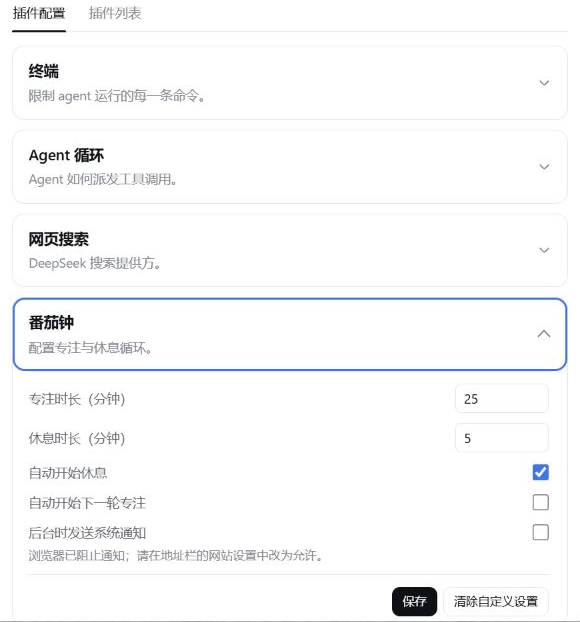
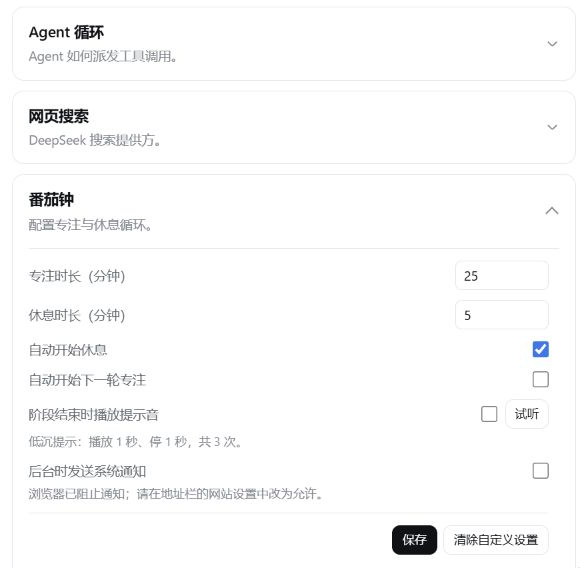
docs: 更新提示音说明与设置截图

diff --git a/README.md b/README.md
@@ -56,7 +56,7 @@
 - **完整计时控制：** 支持开始、暂停、重置、跳过、环形进度、阶段提示和已完成专注计数。
 - **低干扰迷你模式：** 收起后只保留阶段、倒计时和开始/暂停，仍可拖动、展开或关闭。
 - **可配置循环：** 专注与休息时长可调，并可分别控制是否自动开始休息或下一轮专注。
-- **双层完成提醒：** 阶段结束时显示 DSH 内全局提醒；可选在页面处于后台时发送浏览器系统通知。
+- **三通道完成提醒：** 阶段结束时显示 DSH 内全局提醒；还可分别开启低沉提示音和后台系统通知。
 - **宿主主题适配：** 复用 DSH 设计令牌，支持明暗主题、键盘焦点和“减少动态效果”偏好。
 - **可预期的降级：** settings 服务不可用或浏览器不是 loopback 连接时，计时器仍可使用，并明确进入只读模式。
 
@@ -105,6 +105,7 @@ dsh web
 | 休息时长 | 5 分钟 | 每轮休息阶段的完整时长 |
 | 自动开始休息 | 开启 | 专注自然结束后自动启动休息 |
 | 自动开始下一轮专注 | 关闭 | 休息自然结束后自动启动下一轮 |
+| 阶段结束时播放提示音 | 关闭 | 播放 1 秒低沉提示、停 1 秒，共 3 次；可直接试听 |
 | 后台时发送系统通知 | 关闭 | DSH 页面处于后台时，通过浏览器平台 API 发送通知 |
 
 设置保存在 DSH 设置文档的 `dsh-pomodoro` 分节。尚未开始且未被改动的当前阶段会立即采用新时长；运行中或已经暂停的阶段从下一次阶段切换起采用。
@@ -115,9 +116,11 @@ dsh web
 
 专注或休息自然结束后，插件始终通过 DSH 官方 `shell.overlay` 显示全局提醒，即使番茄钟面板已经关闭也能看到。若下一阶段配置为自动开始，提醒会同时说明新的阶段已经开始。
 
+“阶段结束时播放提示音”默认关闭。开启并保存后，插件会在每次自然结束时播放内置低沉提示：每次只播放音频的前 1 秒，随后停 1 秒，共 3 次，总提醒时段约 5 秒。“试听”无需先保存；首次开启、试听或开始计时会尝试解锁浏览器音频。若浏览器仍拒绝播放，DSH 内提醒不会受影响。
+
 “后台时发送系统通知”默认关闭。首次开启时浏览器会请求当前站点的通知权限；授权成功后仍需点击“保存”。插件只把启用意图写入 `settings.yaml` 的 `dsh-pomodoro.systemNotifications`，通知权限仍由浏览器按站点独立管理。若权限被拒绝、浏览器不支持通知或当前地址不是安全上下文，DSH 内提醒会继续工作。
 
-系统通知仅在 DSH 页面处于后台或失去焦点时发送，前台不会与 DSH 内提醒重复打扰。请通过 `localhost`、`127.0.0.1` 或 HTTPS 访问，并保持 DSH 页面打开；关闭页面后的可靠提醒不在当前版本支持范围内。
+系统通知仅在 DSH 页面处于后台或失去焦点时发送，前台不会与 DSH 内提醒重复打扰。同时启用提示音时，插件会请求系统通知静音，实际效果由浏览器和操作系统决定。请通过 `localhost`、`127.0.0.1` 或 HTTPS 访问，并保持 DSH 页面打开；关闭页面后的可靠提醒不在当前版本支持范围内。
 
 ## 更新与移除
 
@@ -149,6 +152,7 @@ npm pack --dry-run
 |---|---|
 | `lib/index.js` | Node/Cordis 入口、配置 schema 和 loopback RPC |
 | `lib/client.js` | 浏览器计时引擎、React UI、slot 注册和设置同步 |
+| `assets/sounds/deep-ding.mp3` | CC0 低沉提示音源文件；运行时字节嵌入客户端 bundle |
 | `cordis.patch.yml` | 向 DSH Web 组合插入插件服务 |
 | `package.json` | exports、peer 范围、bundle 声明和 npm 发布清单 |
 | `.github/workflows/publish.yml` | GitHub Release 到 npm 的可信发布流程 |
@@ -172,4 +176,4 @@ npm pack --dry-run
 
 ## License
 
-[MIT](LICENSE)。React/ReactDOM 等第三方组件的许可信息见 [THIRD_PARTY_NOTICES.md](THIRD_PARTY_NOTICES.md)。
+[MIT](LICENSE)。React/ReactDOM 与 CC0 完成提示音等第三方素材的许可信息见 [THIRD_PARTY_NOTICES.md](THIRD_PARTY_NOTICES.md)。
